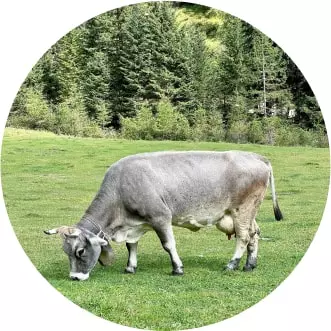
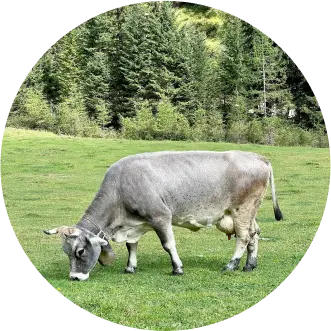
Add about-markup

diff --git a/src/partials/about.html b/src/partials/about.html
@@ -1,0 +1,44 @@
+<section class="about">
+    <div class="container">
+        <p class="title-label--white">tradition and love</p>
+        <h2 class="about__title">How it’s made?</h2>        
+        <picture>
+            <source 
+                srcset="./images/desktop/desktop-about/desktop-about-cow@1x-min.webp 1x, ./images/desktop/desktop-about/desktop-about-cow@2x-min.webp 2x"
+                media="(min-width: 1200px)" type="image/webp" />
+            <source
+                srcset="./images/desktop/desktop-about/desktop-about-cow@1x-min.jpg 1x, ./images/desktop/desktop-about/desktop-about-cow@2x-min.jpg 2x"
+                media="(min-width: 1200px)" />
+        
+            <source
+                srcset="./images/tablet/tablet-about/tablet-about-cow@1x.webp 1x, ./images/tablet/tablet-about/tablet-about-cow@2x.webp 2x"
+                media="(min-width: 768px)" type="image/webp" />
+            <source
+                srcset="./images/tablet/tablet-about/tablet-about-cow@1x.jpg 1x, ./images/tablet/tablet-about/tablet-about-cow@2x.jpg 2x"
+                media="(min-width: 768px)" />
+        
+            <source
+                srcset="./images/mobile/mobile-about/mobile-about-cow@1x.webp 1x, ./images/mobile/mobile-about/mobile-about-cow@2x.webp 2x"
+                media="(max-width: 767px)" type="image/webp" />
+            <source
+                srcset="./images/mobile/mobile-about/mobile-about-cow@1x.jpg 1x, ./images/mobile/mobile-about/mobile-about-cow@2x.jpg 2x"
+                media="(max-width: 767px)" />
+        
+            <img class="cow-image" src="./images/desktop/desktop-about/desktop-about-cow@1x-min.jpg" alt="Cow eating grass">
+        </picture>     
+        <p class="about__text">
+            Ice is a place where you will become not only a little happier, but also healthier. Health is the main value for us, and
+            we follow it when creating our handmade desserts.
+        </p>
+        <p class="about__text">
+            We use traditional recipes and 100% natural ingredients. Our products are so natural that they can be given to children
+            from the age of three years. Sweets lovers can expect 55 types of ice cream, 15 types of coffee and 23 milkshakes.
+        </p>
+        <p class="about__text">
+            This is enough to choose ice cream and coffee for any mood!
+        </p>
+        <button class="about-button" type="button">
+            Read more            
+        </button>
+    </div>
+</section>

diff --git a/src/sass/layout/_about.scss b/src/sass/layout/_about.scss
@@ -1,0 +1,3 @@
+.cow-image {
+    border-radius: 50%;      
+}
